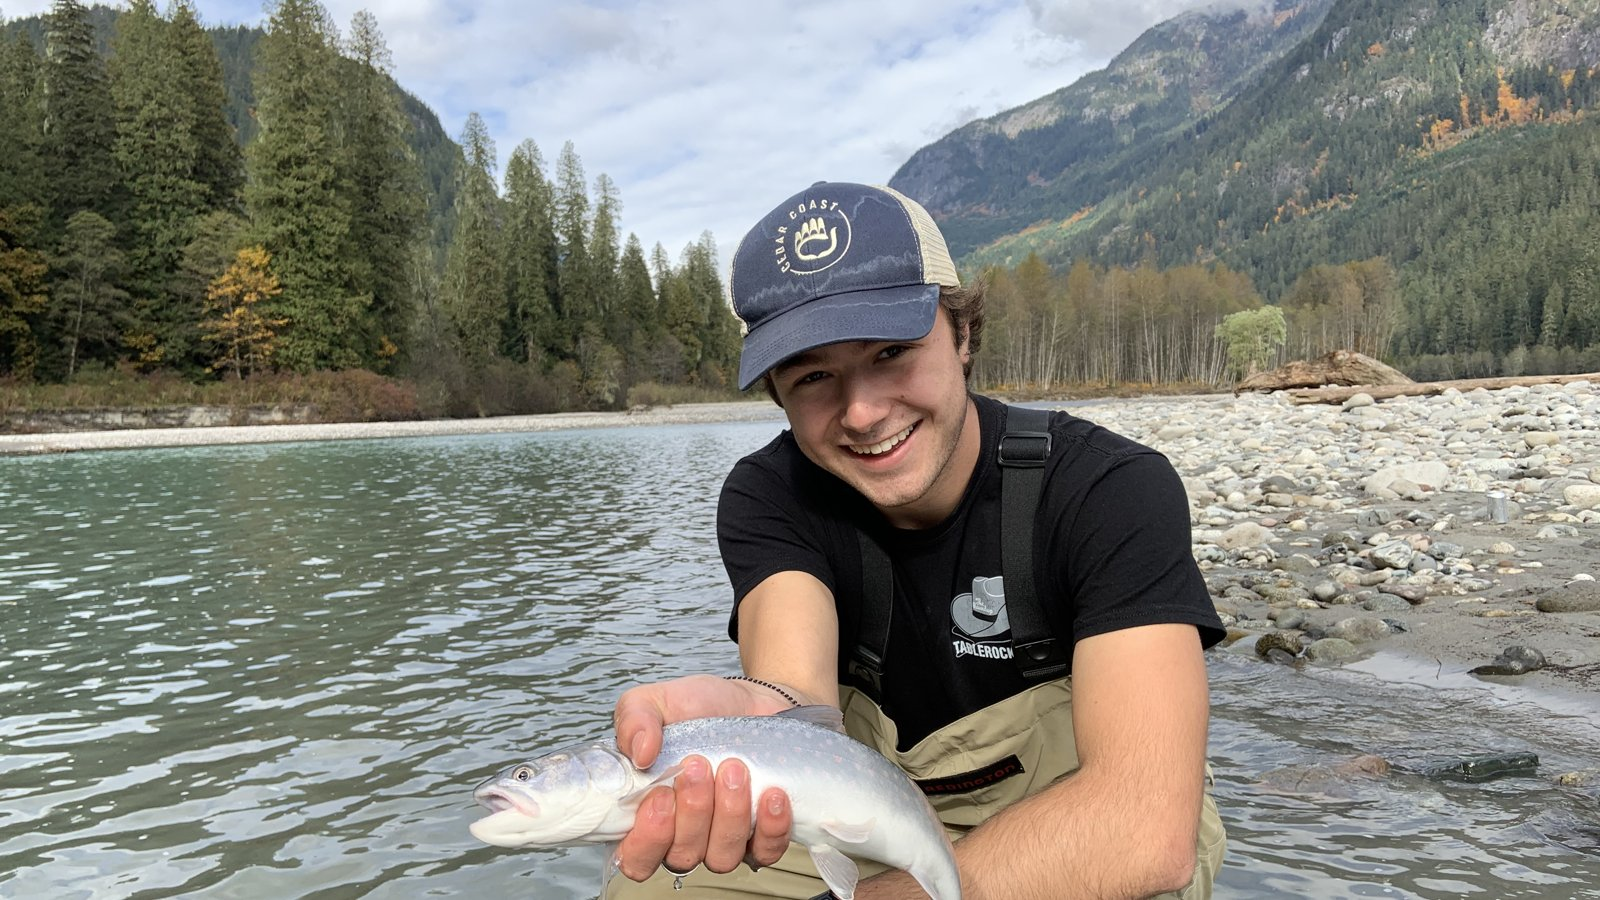
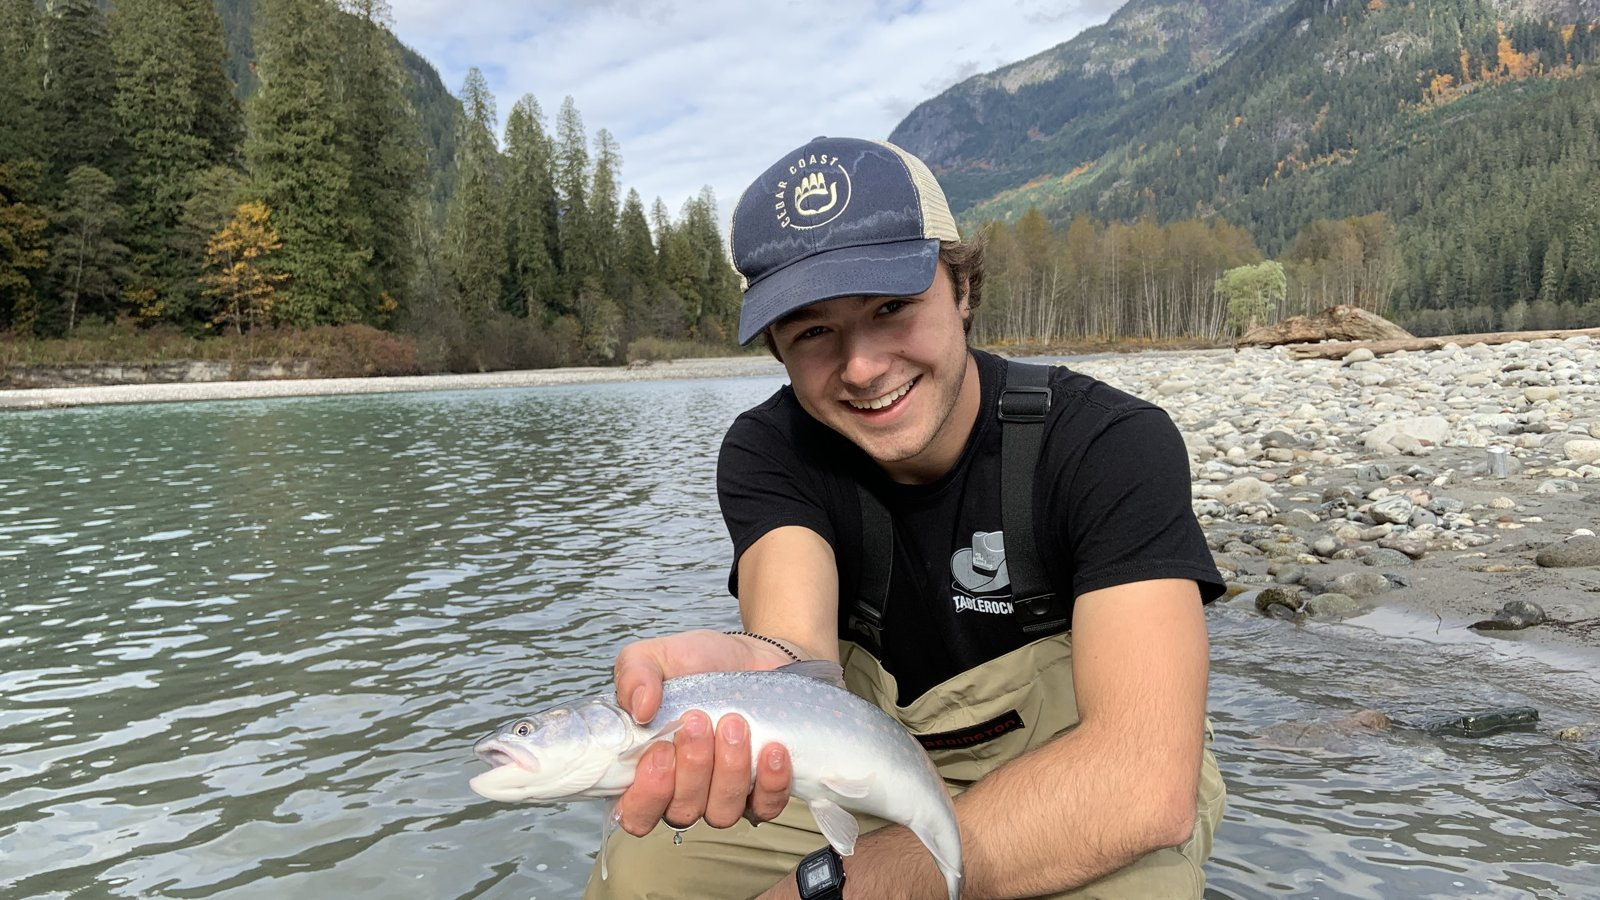
fish thread, lowercase titles, trip retitled, water notes from the folder, watcher build-checks

diff --git a/layouts/_partials/sidebar.html b/layouts/_partials/sidebar.html
@@ -8,7 +8,7 @@
 {{ $kind := dict }}{{ range $terms }}{{ $kind = merge $kind (dict .Title (index $groups (index (last 1 (split .Title " ")) 0) | default "top")) }}{{ end }}
 <ul class="plain"><li><a href="{{ (site.GetPage "posts").RelPermalink }}">all</a></li>{{ range (where $terms "Weight" "ne" 0).ByWeight }}{{ if not (in (slice "rivers" "lakes" "estuaries" "oceans") .Title) }}<li><a href="{{ .RelPermalink }}">{{ .Title }}</a>{{ with len .Pages }} <span class="mute">{{ . }}</span>{{ end }}</li>{{ end }}{{ end }}{{ range $g := slice "rivers" "lakes" "estuaries" "oceans" }}{{ $in := where $terms "Title" "in" (slice) }}{{ range $terms.ByTitle }}{{ if eq (index $kind .Title) $g }}{{ $in = $in | append . }}{{ end }}{{ end }}{{ with $in }}<li><details><summary>{{ $g }}</summary><ul class="plain nest">{{ with site.GetPage (printf "/categories/%s" $g) }}<li><a href="{{ .RelPermalink }}">all {{ $g }}</a></li>{{ end }}{{ range . }}<li><a href="{{ .RelPermalink }}">{{ .Title }}</a>{{ with len .Pages }} <span class="mute">{{ . }}</span>{{ end }}</li>{{ end }}</ul></details></li>{{ end }}{{ end }}{{ range (where $terms "Weight" 0).ByTitle }}{{ if eq (index $kind .Title) "top" }}<li><a href="{{ .RelPermalink }}">{{ .Title }}</a>{{ with len .Pages }} <span class="mute">{{ . }}</span>{{ end }}</li>{{ end }}{{ end }}</ul>
 <h3>older posts</h3>
-<ul class="plain">{{ range (where site.RegularPages "Section" "posts").ByDate.Reverse }}<li><a href="{{ .RelPermalink }}">{{ .Date.Format "January 2006" }}</a></li>{{ end }}</ul>
+<ul class="plain">{{ range (where site.RegularPages "Section" "posts").ByDate.Reverse }}<li><a href="{{ .RelPermalink }}">{{ .Date.Format "January 2006" | lower }}</a></li>{{ end }}</ul>
 {{ with site.Params.links }}<h3>links</h3><ul class="plain">{{ range . }}<li><a href="{{ .url }}">{{ .name }}</a></li>{{ end }}</ul>{{ end }}
 <h3>contact</h3>
 <p>{{ replace site.Params.email "@" " (at) " }}</p>

diff --git a/layouts/_markup/render-image.html b/layouts/_markup/render-image.html
@@ -1,1 +1,1 @@
-{{ with .Page.Resources.Get .Destination }}{{ $m := .Resize "968x q80" }}{{ $bits := split ($.Title | default "") " | " }}{{ $name := index $bits 0 }}{{ $tags := slice "fishies" }}{{ if gt (len $bits) 1 }}{{ $tags = apply (split (index $bits 1) ",") "trim" "." " " }}{{ end }}{{ $slugs := apply $tags "urlize" "." }}<figure class="card" data-tags="{{ delimit $slugs " " }}"><a href="{{ .RelPermalink }}"><img src="{{ $m.RelPermalink }}" width="484" height="{{ div $m.Height 2 }}" alt="{{ $.Text }}"></a><figcaption>{{ with $name }}{{ with site.GetPage (printf "/categories/%s" (index $slugs 0)) }}<a class="ftitle" href="{{ .RelPermalink }}">{{ $name }}</a>{{ else }}<span class="ftitle">{{ $name }}</span>{{ end }}{{ end }}<p>{{ $.Text }}</p></figcaption></figure>{{ else }}<img src="{{ .Destination }}" alt="{{ .Text }}">{{ end }}
+{{ with .Page.Resources.Get .Destination }}{{ $m := .Resize "968x q80" }}{{ $bits := split ($.Title | default "") " | " }}{{ $name := index $bits 0 }}{{ $tags := slice "fish" }}{{ if gt (len $bits) 1 }}{{ $tags = apply (split (index $bits 1) ",") "trim" "." " " }}{{ end }}{{ $slugs := apply $tags "urlize" "." }}<figure class="card" data-tags="{{ delimit $slugs " " }}"><a href="{{ .RelPermalink }}"><img src="{{ $m.RelPermalink }}" width="484" height="{{ div $m.Height 2 }}" alt="{{ $.Text }}"></a><figcaption>{{ with $name }}{{ with site.GetPage (printf "/categories/%s" (index $slugs 0)) }}<a class="ftitle" href="{{ .RelPermalink }}">{{ $name }}</a>{{ else }}<span class="ftitle">{{ $name }}</span>{{ end }}{{ end }}<p>{{ $.Text }}</p></figcaption></figure>{{ else }}<img src="{{ .Destination }}" alt="{{ .Text }}">{{ end }}

diff --git a/static/css/site.css b/static/css/site.css
@@ -22,6 +22,7 @@ img { max-width: 100%; height: auto; display: block; margin: 1.2rem auto }
 .post { padding-bottom: 1.5rem }
 .post .date { margin: 0; font-size: .85rem; color: var(--mute) }
 .post .title { font: 1.7rem/1.2 "Gochi Hand", cursive; margin: .2rem 0 1rem }
+.title, .listtitle, .side, .ftitle { text-transform: lowercase }
 .post .title a { text-decoration: none }
 .post .meta { font-size: .8rem; color: var(--mute) }
 .post .meta a { color: var(--mute) }

diff --git a/layouts/archive/section.html b/layouts/archive/section.html
@@ -1,7 +1,7 @@
 {{ define "main" }}
 <h1 class="listtitle">{{ .Title }}</h1>
 {{ range (where site.RegularPages "Section" "posts").GroupByDate "January 2006" }}
-<h2 class="sub" id="{{ .Key | urlize }}">{{ .Key }}</h2>
+<h2 class="sub" id="{{ .Key | urlize }}">{{ .Key | lower }}</h2>
 <ul class="plain">{{ range .Pages }}<li><a href="{{ .RelPermalink }}">{{ .Title }}</a> <span class="mute">{{ .Date.Format "Jan 2" }}</span></li>{{ end }}</ul>
 {{ end }}
 {{ end }}

diff --git a/import.py b/import.py
@@ -1,10 +1,11 @@
-import pathlib, re, datetime, subprocess, plistlib, tomllib
+import pathlib, re, datetime, subprocess, plistlib, tomllib, json
 from PIL import Image, ImageOps
 src = pathlib.Path.home() / "Desktop" / "fish_are_friends"
 dst = pathlib.Path("content/posts")
 months = {m: i for i, m in enumerate(["january", "february", "march", "april", "may", "june", "july", "august", "september", "october", "november", "december"], 1)}
 clean = lambda s: re.sub(r"\s+", " ", s.replace("_", " ")).strip()
-waters = tomllib.loads(pathlib.Path("hugo.toml").read_text())["params"].get("waters", {})
+params = tomllib.loads(pathlib.Path("hugo.toml").read_text())["params"]
+waters = {**params.get("tags", {}), **params.get("waters", {})}
 water = lambda t: re.search(r" (River|Creek|Lake|Estuary|Harbour|Bay|Sound|Inlet|Ocean)$", t) is not None
 group = lambda t: {"River": "rivers", "Creek": "rivers", "Lake": "lakes", "Estuary": "estuaries"}.get(t.split()[-1], "oceans")
 def finder_tags(f):
@@ -16,7 +17,7 @@ for folder in sorted(p for p in src.iterdir() if p.is_dir()):
     m = re.match(r"([A-Za-z]+)[ _](\d{4})", parts[0])
     if not m: continue
     date = datetime.date(int(m.group(2)), months[m.group(1).lower()], 1)
-    title = clean(parts[1]) if len(parts) > 1 else f"{m.group(1).capitalize()} {m.group(2)}"
+    title = clean(parts[1]) if len(parts) > 1 else f"{m.group(1).lower()} {m.group(2)}"
     out = dst / f"{date:%Y-%m}-{slugify(title)}"
     out.mkdir(parents=True, exist_ok=True)
     photos, home, videos, tags = [], [], [], set()
@@ -25,7 +26,7 @@ for folder in sorted(p for p in src.iterdir() if p.is_dir()):
         name = clean(bits[0])
         desc = (folder / (bits[0] + ".txt")).read_text().strip() if (folder / (bits[0] + ".txt")).exists() else ""
         if f.suffix.lower() in (".jpg", ".jpeg", ".png", ".heic"):
-            tag = [waters.get(t, t) for t in finder_tags(f) or ([clean(t) for t in bits[1].split(",")] if len(bits) > 1 else ["fishies"])]
+            tag = [waters.get(t, t) for t in finder_tags(f) or ([clean(t) for t in bits[1].split(",")] if len(bits) > 1 else ["fish"])]
             tags.update(tag)
             for t in tag: name = clean(re.sub(r"(?i)\b" + re.escape(re.sub(r"(?i)\s+(river|lake|creek)$", "", t)) + r"(\s+(river|lake|creek))?\b", "", name)) or name
             name = re.sub(r"(?i)\s+(from|at|on|in|of|the|and|with)$", "", name)
@@ -33,7 +34,7 @@ for folder in sorted(p for p in src.iterdir() if p.is_dir()):
             if not jpg.exists() or jpg.stat().st_mtime < f.stat().st_mtime:
                 im = ImageOps.exif_transpose(Image.open(f)).convert("RGB")
                 im.thumbnail((1600, 1600))
-                im = ImageOps.fit(im, (1600, 900), centering=(0.5, 0.35))
+                im = ImageOps.fit(im, (1600, 900))
                 im.save(jpg, quality=85)
             photos.append((sorted(t for t in tag if water(t)) or home[:1], f'![{desc}]({jpg.name} "{name} | {", ".join(tag)}")'))
         elif f.suffix == ".river":
@@ -45,6 +46,10 @@ for folder in sorted(p for p in src.iterdir() if p.is_dir()):
     cards = []
     for t in sorted(t for t in tags if water(t)):
         if not pathlib.Path(f"assets/maps/{slugify(t)}.svg").exists() and subprocess.run(["Rscript", "maps.R", t]).returncode: continue
+        note = folder / (t.replace(" ", "_") + ".txt")
+        if note.exists():
+            d = pathlib.Path("data/rivers.toml")
+            d.write_text(re.sub(r'(\["%s"\]\ntitle = "[^"]*"\nabout = )"[^"]*"' % re.escape(slugify(t)), lambda m: m.group(1) + json.dumps(note.read_text().strip()), d.read_text()))
         tags.add(group(t))
         cards.append(f'{{{{< map "{t}" >}}}}')
         cards.extend(p for w, p in photos if w and w[0] == t)

diff --git a/README.md b/README.md
@@ -2,9 +2,9 @@
 
 The site behind fisharefriends.org. Hugo builds it, GitHub Pages serves it, a push to main publishes it.
 
-posts come from the folder ~/Desktop/fish_are_friends, one post per month folder (`August_2022`, or `August_2022__Dean River trip` for a title), synced by `./sync.sh` or the launch agent. In a month folder: a photo `Mack_the_BullTrout.jpg` is a card titled from the name with any tag text dropped (Josh_Dean_River tagged Dean River is titled Josh), in every thread its Finder tags name (or `Mack_the_BullTrout__fishies,dean river.jpg` without Finder tags; no tags at all means fishies); an optional `Mack_the_BullTrout.txt` beside it is its caption; every river or lake in the photos' tags (a tag ending in River, Creek or Lake) gets its own map card automatically, drawn on first use (BC Freshwater Atlas, then OpenStreetMap; `Rscript maps.R "Bitterroot River" "Bitteroot River"` draws under a different tag spelling); an empty `Morice_River.river` file names the month's water so photos without a water tag nest under it; `Banquet_by_Bloc_Party__P-i0jw61niE.video` is a song card (YouTube id after the double underscore, caption from `Banquet_by_Bloc_Party.txt`). A month post is organized by water: each river, lake, estuary or harbour in the tags gets its map card followed by the photos tagged with it, then photos with no water tag, then songs. A tag that names a place rather than a water (Toquaht, Ucluelet) is mapped to its water in `[params.waters]` in hugo.toml. Threads list the cards tagged with them, newest first, each linking to its month. Every photo is cropped to the same 16:9 card (tall ones keep their upper part). Posts written by hand:
+posts come from the folder ~/Desktop/fish_are_friends, one post per month folder (`August_2022`, or `August_2022__Dean River trip` for a title), synced by `./sync.sh` or the launch agent. In a month folder: a photo `Mack_the_BullTrout.jpg` is a card titled from the name with any tag text dropped (Josh_Dean_River tagged Dean River is titled Josh), in every thread its Finder tags name (or `Mack_the_BullTrout__fish,dean river.jpg` without Finder tags; no tags at all means fish; `[params.tags]` in hugo.toml renames a tag, so your fishies tag shows as fish); an optional `Mack_the_BullTrout.txt` beside it is its caption; a `Dean_River.txt` in any month folder is that river's description on every page it appears; every river or lake in the photos' tags (a tag ending in River, Creek or Lake) gets its own map card automatically, drawn on first use (BC Freshwater Atlas, then OpenStreetMap; `Rscript maps.R "Bitterroot River" "Bitteroot River"` draws under a different tag spelling); an empty `Morice_River.river` file names the month's water so photos without a water tag nest under it; `Banquet_by_Bloc_Party__P-i0jw61niE.video` is a song card (YouTube id after the double underscore, caption from `Banquet_by_Bloc_Party.txt`). A month post is organized by water: each river, lake, estuary or harbour in the tags gets its map card followed by the photos tagged with it, then photos with no water tag, then songs. A tag that names a place rather than a water (Toquaht, Ucluelet) is mapped to its water in `[params.waters]` in hugo.toml. Threads list the cards tagged with them, newest first, each linking to its month. Every photo is centre-cropped to the same 16:9 card, so crop or straighten a photo yourself before dropping it in if the centre is not the subject. Posts written by hand:
 
-new post: `hugo new content posts/<slug>/index.md`, set `categories` to one or more of spey fishing, single hand, music, floats, fly tying, film, art, write under the front matter. Photos sit beside index.md, landscape, and go in as `![caption](photo.jpg)`: they show 484 wide on the left with a bold title (the post title, or `![caption](photo.jpg "title")`) linking to the post category and the caption beside them, and open full size on click. Maps and videos take the same width. Add `river: "Morice River"` to the front matter and put `{{< map >}}` where the river card should sit (see maps.R). Music: `{{< video ID "title" >}}your words{{< /video >}}` makes a video card with the title linking to YouTube.
+new post: `hugo new content posts/<slug>/index.md`, set `categories` to one or more of spey fishing, single hand, music, floats, fly tying, film, art, write under the front matter. Photos sit beside index.md, and go in as `![caption](photo.jpg)`: they show 484 wide on the left with a bold title (the post title, or `![caption](photo.jpg "title")`) linking to the post category and the caption beside them, and open full size on click. Maps and videos take the same width. Add `river: "Morice River"` to the front matter and put `{{< map >}}` where the river card should sit (see maps.R). Music: `{{< video ID "title" >}}your words{{< /video >}}` makes a video card with the title linking to YouTube.
 
 new trip: `hugo new content trips/<slug>/index.md`, set `kind` to raft (three spots) or wade (four spots), fill in trip_date, where (the place, with the river in brackets), river (names the map file), meet, crew, donate and donate_url (the group that gets the donations), bring. Every card links the BC freshwater licence page from `licence` in hugo.toml, and shows the river map `assets/maps/<river>.svg` when one exists: `Rscript maps.R "Squamish River"` draws the river main stem from the BC Freshwater Atlas into a 16:9 box (needs R with sf); the river card's text is the `about` entry for that river in data/rivers.toml, which the script adds empty for you to fill. Keep `crew: []` until someone signs up. Friends sign themselves in on the card. With `signup` in hugo.toml set to the Apps Script web app URL, names live in the Google Sheet and the card shows them live (crew in the front matter is ignored); with `signup` empty, the form falls back to an email to `email` and you keep crew by hand. The script is signup.gs: new Google Sheet, Extensions, Apps Script, paste it, Deploy as web app executing as you with access for anyone, copy the /exec URL into hugo.toml.
 

diff --git a/content/posts/2026-09-september-2026/index.md b/content/posts/2026-09-september-2026/index.md
@@ -1,10 +1,10 @@
 ---
-title: "September 2026"
+title: "september 2026"
 date: 2026-09-01T12:00:00-07:00
-categories: [Morice River, fishies, music, rivers]
+categories: [Morice River, fish, music, rivers]
 ---
 {{< map "Morice River" >}}
 
-![Ruby fish from the Morice on Sunday and the first fish I caught in nearly two weeks of being up here. She nearly took my arm off. Her name is Ruby and she is beautiful.](ruby.jpg "Ruby | fishies")
+![Ruby fish from the Morice on Sunday and the first fish I caught in nearly two weeks of being up here. She nearly took my arm off. Her name is Ruby and she is beautiful.](ruby.jpg "Ruby | fish")
 
 {{< video P-i0jw61niE "Banquet by Bloc Party" >}}{{< /video >}}

diff --git a/content/posts/2019-10-october-2019/index.md b/content/posts/2019-10-october-2019/index.md
@@ -1,13 +1,13 @@
 ---
-title: "October 2019"
+title: "october 2019"
 date: 2019-10-01T12:00:00-07:00
-categories: [Squamish, Squamish River, fishies, friends, not-fly-fishing, rivers]
+categories: [Squamish, Squamish River, fish, friends, not-fly-fishing, rivers]
 ---
 {{< map "Squamish River" >}}
 
 ![](christian-was-designed-for-this.jpg "Christian was designed for this | friends, Squamish River")
 
-![](mack-the-bulltrout.jpg "Mack the BullTrout | fishies, Squamish River")
+![](mack-the-bulltrout.jpg "Mack the BullTrout | fish, Squamish River")
 
 ![](hallows-ween.jpg "Hallows ween | friends, Squamish")
 

diff --git a/content/posts/2022-08-august-2022/index.md b/content/posts/2022-08-august-2022/index.md
@@ -1,7 +1,7 @@
 ---
-title: "August 2022"
+title: "august 2022"
 date: 2022-08-01T12:00:00-07:00
-categories: [Atnarko River, Bella Coola, Dean River, fishies, friends, rivers]
+categories: [Atnarko River, Bella Coola, Dean River, fish, friends, rivers]
 ---
 {{< map "Atnarko River" >}}
 
@@ -9,7 +9,7 @@ categories: [Atnarko River, Bella Coola, Dean River, fishies, friends, rivers]
 
 {{< map "Dean River" >}}
 
-![](josh.jpg "Josh | fishies, Dean River")
+![](josh.jpg "Josh | fish, Dean River")
 
 ![](sam-in-action.jpg "Sam in action | friends, Dean River")
 

diff --git a/content/posts/2020-07-july-2020/index.md b/content/posts/2020-07-july-2020/index.md
@@ -1,7 +1,7 @@
 ---
-title: "July 2020"
+title: "july 2020"
 date: 2020-07-01T12:00:00-07:00
-categories: [Kennedy Lake, Ucluelet Harbour, fishies, friends, lakes, oceans]
+categories: [Kennedy Lake, Ucluelet Harbour, fish, friends, lakes, oceans]
 ---
 {{< map "Kennedy Lake" >}}
 
@@ -11,4 +11,4 @@ categories: [Kennedy Lake, Ucluelet Harbour, fishies, friends, lakes, oceans]
 
 {{< map "Ucluelet Harbour" >}}
 
-![](gab-and-gob.jpg "gab and gob | friends, fishies, Ucluelet Harbour")
+![](gab-and-gob.jpg "gab and gob | friends, fish, Ucluelet Harbour")

diff --git a/content/posts/2020-06-june-2020/index.md b/content/posts/2020-06-june-2020/index.md
@@ -1,10 +1,10 @@
 ---
-title: "June 2020"
+title: "june 2020"
 date: 2020-06-01T12:00:00-07:00
-categories: [Boot Lake, fishies, lakes]
+categories: [Boot Lake, fish, lakes]
 ---
 {{< map "Boot Lake" >}}
 
-![](ben.jpg "Ben | fishies, Boot Lake")
+![](ben.jpg "Ben | fish, Boot Lake")
 
 ![](tooted-and-booted.jpg "tooted and booted | Boot Lake")

diff --git a/content/posts/2021-03-march-2021/index.md b/content/posts/2021-03-march-2021/index.md
@@ -1,8 +1,8 @@
 ---
-title: "March 2021"
+title: "march 2021"
 date: 2021-03-01T12:00:00-07:00
-categories: [Bitteroot River, fishies, rivers]
+categories: [Bitteroot River, fish, rivers]
 ---
 {{< map "Bitteroot River" >}}
 
-![](blake.jpg "Blake | Bitteroot River, fishies")
+![](blake.jpg "Blake | Bitteroot River, fish")
